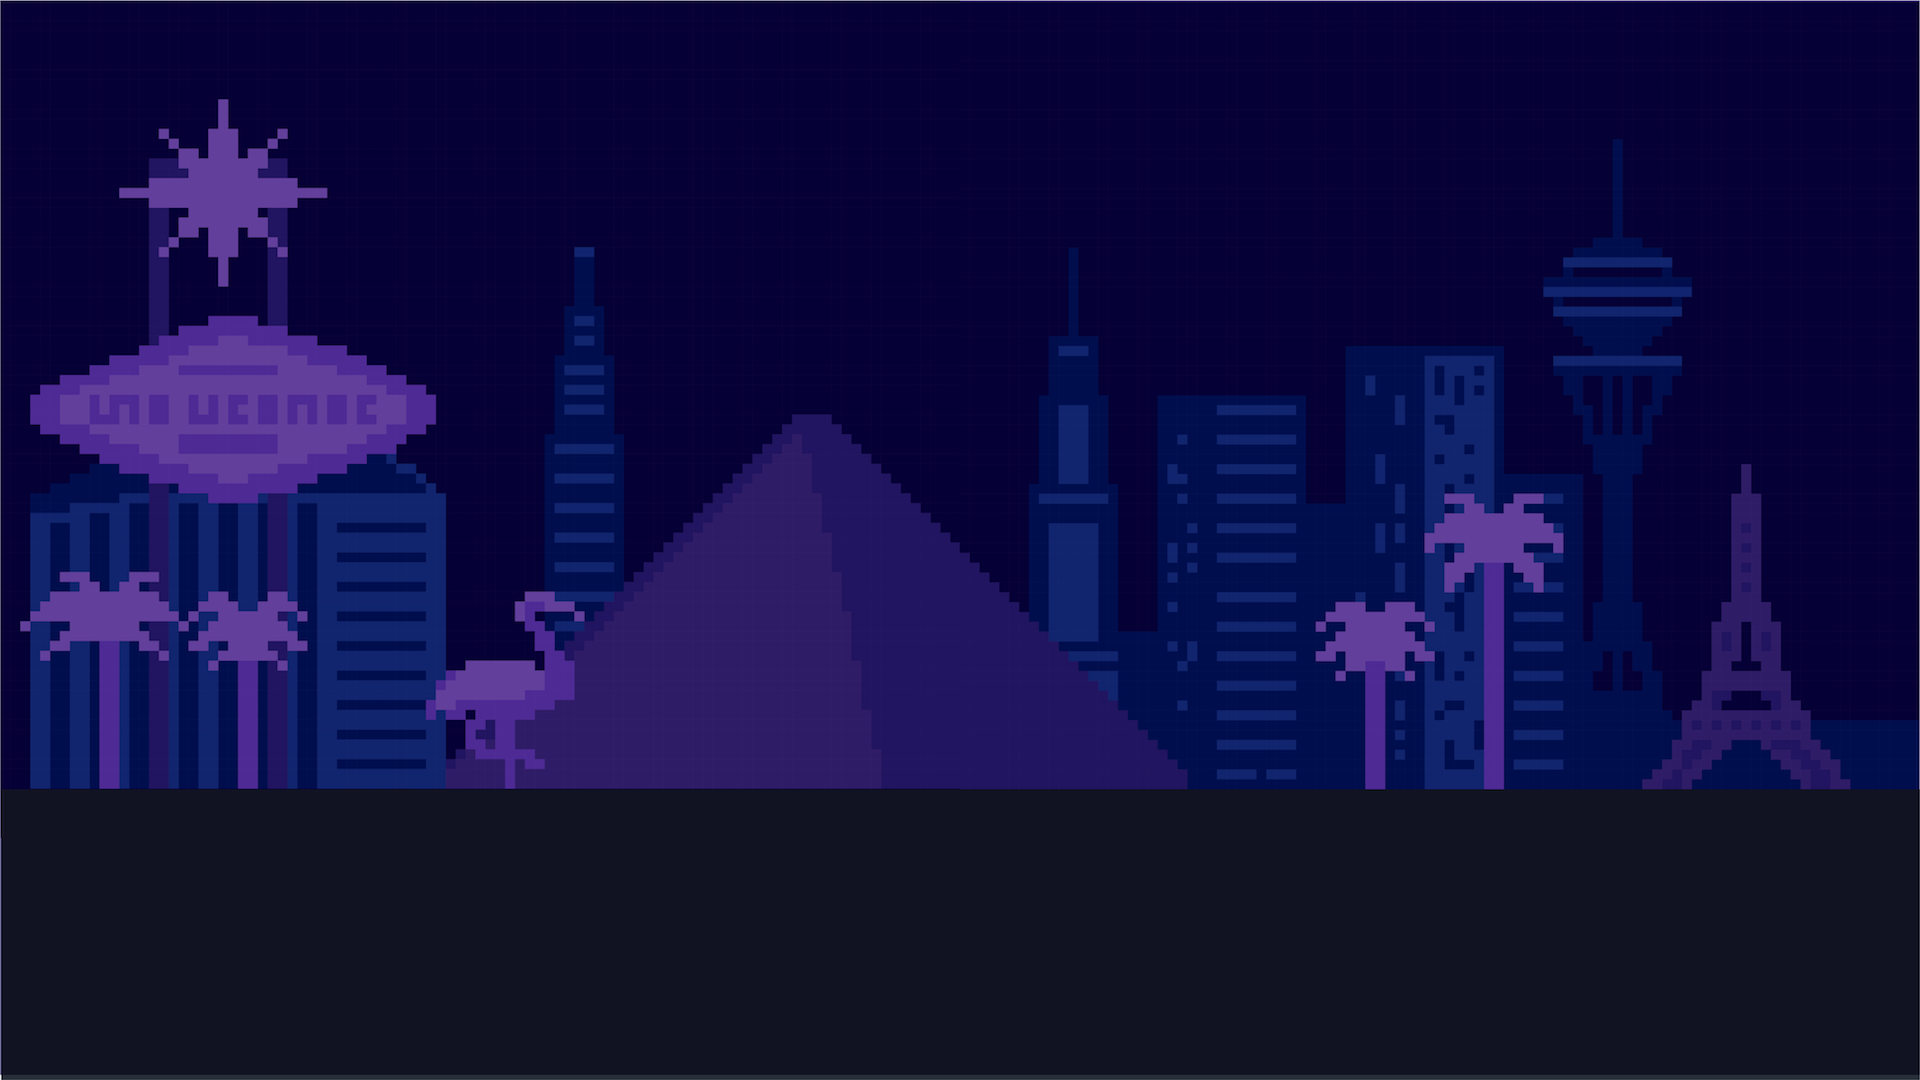
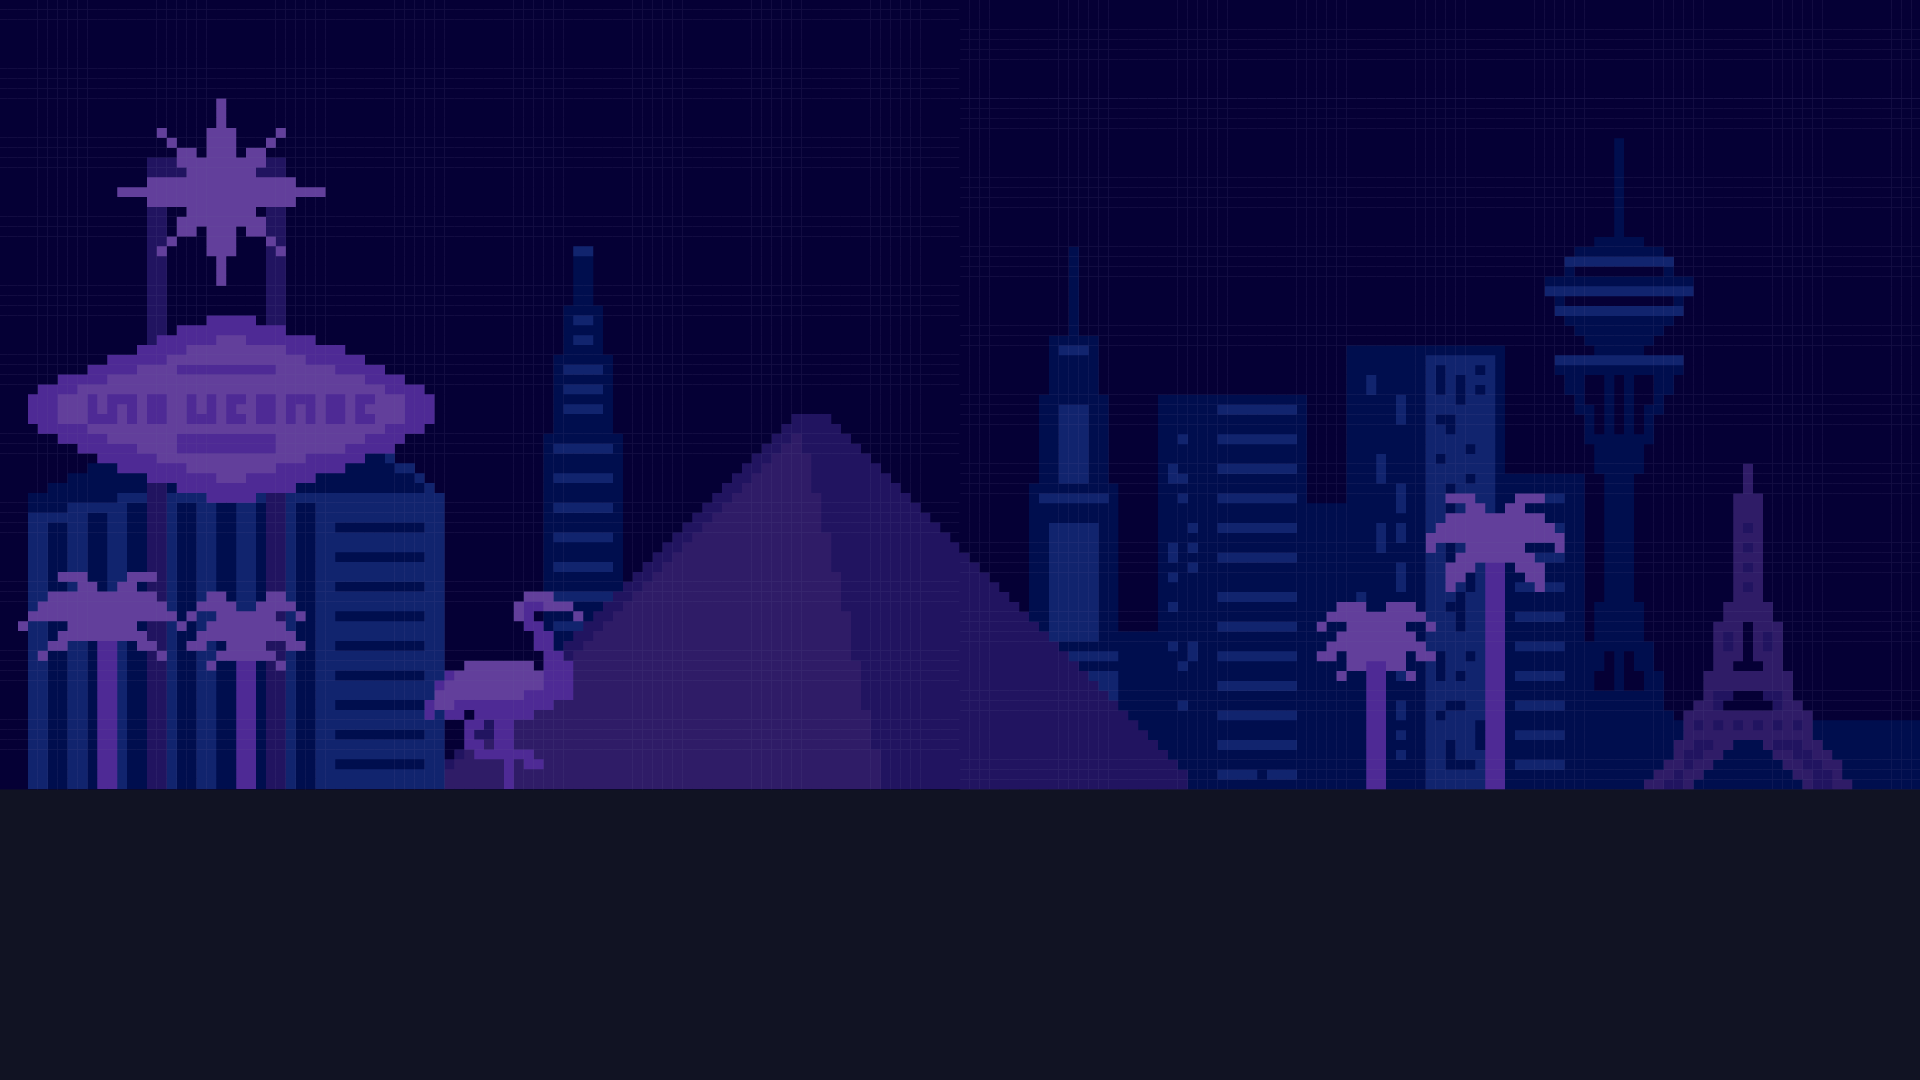
Update to show waiting, walking, falling

diff --git a/src/index.js b/src/index.js
@@ -1,0 +1,47 @@
+import Spriteling from 'spriteling';
+
+import spritesUrl from '../assets/sprites.png';
+import { FRAMES, STATES_NAMES } from './states';
+import { AnimationController } from './control';
+
+const CHARACTER_CONTAINER_ID = 'package-guy';
+const BG_CONTAINER_ID = 'bg';
+
+const animation = createAnimationControl();
+bindClick('#btn-wait', () => animation.wait());
+bindClick('#btn-walk', () => animation.walk());
+bindClick('#btn-fall', () => animation.fall());
+animation.wait();
+
+function createAnimationControl() {
+  let sprite = createSpriteAnimator();
+  const bgControl = createBgControl();
+  return new AnimationController(sprite, bgControl, STATES_NAMES);
+}
+
+function createSpriteAnimator() {
+  const sprite = new Spriteling({
+    url: spritesUrl,
+    cols: 4,
+    rows: 4,
+  }, `#${CHARACTER_CONTAINER_ID}`, true);
+  FRAMES.forEach(([name, frames]) => sprite.addScript(name, frames));
+  return sprite;
+}
+
+function createBgControl() {
+  const backgroundElement = document.querySelector(`#${BG_CONTAINER_ID}`);
+  const applyPlayState = function(state) {
+    if (backgroundElement.style.animationPlayState !== state) {
+      backgroundElement.style.animationPlayState = state
+    }
+  }
+  return {
+    play: () => applyPlayState('running'),
+    pause: () => applyPlayState('paused'),
+  };
+}
+
+function bindClick(selector, cb) {
+  document.querySelector(selector).onclick = cb;
+}

diff --git a/src/states.js b/src/states.js
@@ -1,0 +1,58 @@
+export const STATES_NAMES = {
+  walking: 'walking',
+  falling: 'falling',
+  waiting: 'waiting',
+};
+
+export const FRAMES = [
+  [
+    STATES_NAMES.walking,
+    [
+      { sprite: 2, delay: 200 },
+      { sprite: 3, delay: 200 },
+      { sprite: 4, delay: 200 },
+    ]
+  ],
+  [
+    STATES_NAMES.falling,
+    [
+      { sprite: 5, delay: 150 },
+      { sprite: 6, delay: 150 },
+      { sprite: 7, delay: 150 },
+      { sprite: 8, delay: 250 },
+      { sprite: 9, delay: 400 },
+      { sprite: 8, delay: 500 },
+      { sprite: 9, delay: 400 },
+      { sprite: 8, delay: 500 },
+      { sprite: 9, delay: 400 },
+      { sprite: 8, delay: 500 },
+      { sprite: 9, delay: 400 },
+    ]
+  ],
+  [
+    STATES_NAMES.waiting,
+    [
+      // standby
+      { sprite: 2, delay: 1 },
+      { sprite: 1, delay: 2400 },
+      // tapping
+      { sprite: 10, delay: 250 },
+      { sprite: 11, delay: 250 },
+      { sprite: 10, delay: 250 },
+      { sprite: 11, delay: 250 },
+      { sprite: 10, delay: 250 },
+      // mad
+      { sprite: 12, delay: 150 },
+      // wave
+      { sprite: 13, delay: 150 },
+      { sprite: 14, delay: 150 },
+      { sprite: 15, delay: 150 },
+      { sprite: 14, delay: 150 },
+      { sprite: 15, delay: 150 },
+      { sprite: 14, delay: 150 },
+      { sprite: 13, delay: 150 },
+      // mad
+      { sprite: 12, delay: 150 },
+    ]
+  ]
+];

diff --git a/src/control.js b/src/control.js
@@ -1,0 +1,43 @@
+
+export class AnimationController {
+  /**
+   * 
+   * @param {Spriteling} sprite 
+   * @param {*} bg 
+   * @param {*} states 
+   */
+  constructor(sprite, bgAnimation, stateNames) {
+    this.sprite = sprite;
+    this.bgAnimation = bgAnimation;
+    this.stateNames = stateNames;
+  }
+
+  walk() {
+    this.bgAnimation.play();
+    this._switchTo(this.stateNames.walking);
+  }
+
+  wait() {
+    this.bgAnimation.pause();
+    this.sprite.stop();
+    this.sprite.goTo(1);
+    setTimeout(() => this._switchTo(this.stateNames.waiting), 1);
+    // setTimeout
+    // this._switchTo(this.stateNames.waiting);
+  }
+
+  fall() {
+    this.bgAnimation.pause();
+    this._switchTo(this.stateNames.falling);
+  }
+
+  _switchTo(stateName) {
+    this.sprite.play(stateName, {
+      run: -1,
+    });
+    // setTimeout(() => this.sprite.play(stateName, {
+    //   run: -1,
+    // }));
+  }
+  
+}

diff --git a/index.html b/index.html
@@ -1,14 +1,19 @@
 <html>
-  <head>
-    <meta charset="utf-8">
-    <meta name="viewport" content="width=device-width, initial-scale=1, shrink-to-fit=no">
-    <link rel="stylesheet" href="style.css">
-  </head>
+<head>
+  <meta charset="utf-8">
+  <meta name="viewport" content="width=device-width, initial-scale=1, shrink-to-fit=no">
+  <link rel="stylesheet" href="style.css">
+</head>
 <body>
+  <div>
+    <button id="btn-wait">Wait</button>
+    <button id="btn-walk">Walk</button>
+    <button id="btn-fall">Fall</button>
+  </div>
   <div class="canvas">
-    <div class="bg"></div>
+    <div id="bg" class="bg"></div>
     <div id="package-guy" class="package-guy"></div>
   </div>
-  <script src="./index.js"></script>
+  <script src="./src/index.js"></script>
 </body>
 </html>

diff --git a/style.css b/style.css
@@ -5,6 +5,7 @@ body {
   font-family: sans-serif;
   margin: 0;
   padding: 0;
+  background-color: #101224;
   --canvas-width: 1920px;
 }
 
@@ -13,18 +14,31 @@ body {
   height: 1080px;
   position: relative;
   overflow: hidden;
+  margin: 0 auto;
 }
 
 .bg {
   background: url('./assets/bg.png');
+  background-repeat: repeat-x;
   width: calc(var(--canvas-width) * 2);
   height: 100%;
   position: absolute;
   left: 0;
   top: 0;
   z-index: 0;
+
+  animation-duration: 60s;
+  animation-delay: 0;
+  animation-name: bg-slide;
+  animation-iteration-count: infinite;
+  animation-timing-function: linear;
 }
 
-.package-guy {
-  margin: 0 auto;
+@keyframes bg-slide {
+  0% {
+    transform: translateX(0);
+  }
+  100% {
+    transform: translateX(-50%);
+  }
 }
